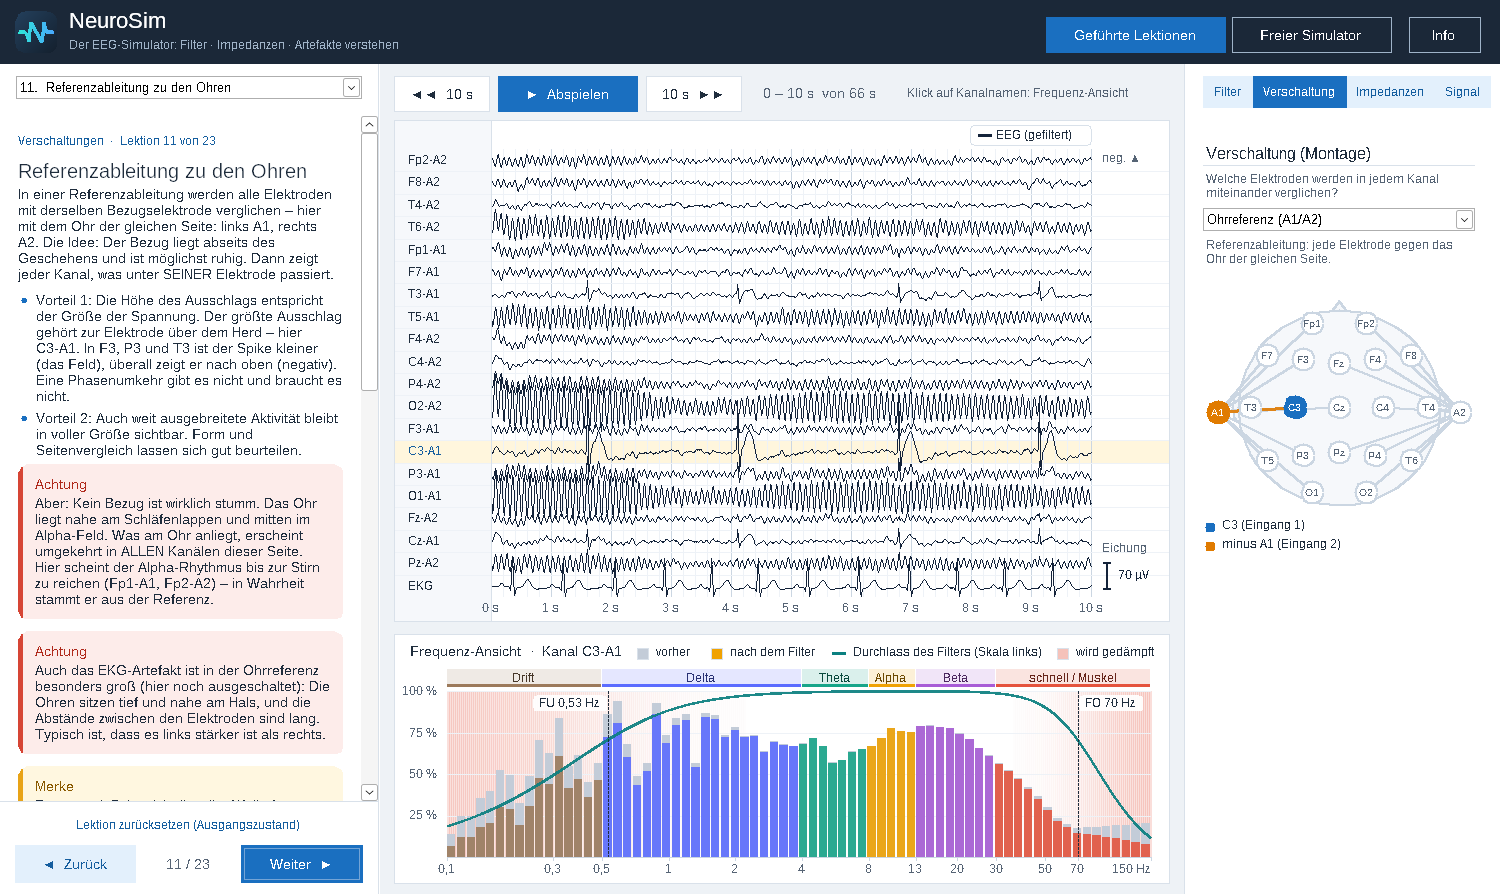
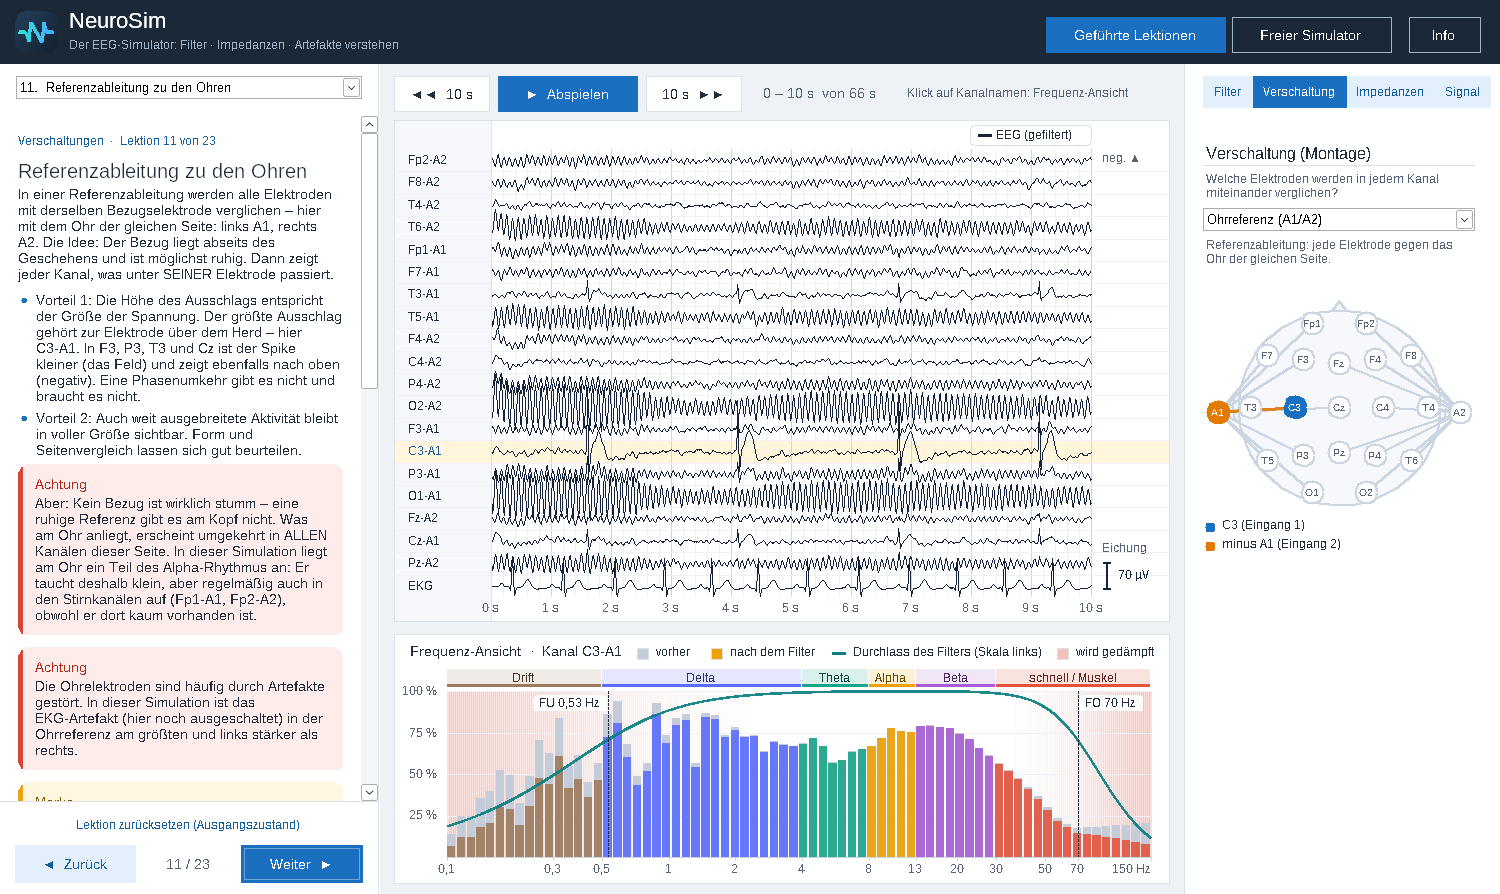
Fachliche Prüfung der neuen Lektionen: Aussagen an gelesene Quellen angepasst
- Verstärker-Kapitel nach Kappenman & Luck 2010 und Usakli 2010: Eingänge gegen die Erde,
  Gleichtaktunterdrückung mindestens 80 dB, Rolle von Impedanz-Unterschieden und Erdelektrode
- Nicht belegte Aussagen entfernt oder als Eigenschaft der Simulation gekennzeichnet
  (Alpha am Ohr, EKG-Artefakt links stärker, Artefakte am Scheitel, Schlaf-Graphoelemente an Cz)
- Angaben zu Ausschlägen an die Messwerte der Simulation angepasst
- Quellenangaben: was im Volltext geprüft wurde und was nicht

Claude-Session: https://claude.ai/code/session_01Y2fd9HeGxC5hUyPdmKffKh

Changed region(s): [[0.0, 0.7248, 0.2453, 0.8758], [0.0307, 0.5436, 0.2147, 0.6946], [0.0307, 0.3926, 0.2147, 0.453]]

diff --git a/KONZEPT.md b/KONZEPT.md
@@ -112,9 +112,11 @@ Die Texte und die Simulation wurden gegen öffentlich zugängliche Leitlinien un
 |---|---|
 | Kanalfolgen von Längsreihe, Querreihe, Ohr- und Vertexreferenz; bipolar und referenziell beurteilen; Average ohne Fp1/Fp2 und Ohren und „keine physikalische Referenz“; T3/T5/T4/T6 entsprechen T7/P7/T8/P8 | DGKN, Empfehlung zu EEG-Ableiteprogrammen (Fassung Oktober 2024, im Volltext geprüft) |
 | Registrierung digital ohne zusätzliche Filter; Übergangswiderstände 1–10 kΩ, möglichst gleichmäßig, vor, nach und bei Artefakten während der Ableitung dokumentieren; Programme während der Ableitung wechseln | DGKN, Empfehlungen für die Durchführung von EEG-Ableitungen bei Erwachsenen (Fassung Oktober 2024, im Volltext geprüft) |
-| Bipolar hebt umschriebene Befunde hervor, löscht Ausgebreitetes; Referenz zeigt Größe, kann „verschmutzt“ sein; Wahl von Ohr oder Cz je nach Ort des Befundes; Laplace für umschriebene Entladungen | Kutluay & Kalamangalam, J Clin Neurophysiol 2019; ACNS Guideline 3 (2016) |
-| Quellenableitung: Elektrode gegen ihre Nachbarn | Hjorth, Electroencephalogr Clin Neurophysiol 1975 |
-| Gleichtaktstörung, Wirkung ungleicher Elektrodenimpedanzen und der Erdelektrode | Metting van Rijn et al., Med Biol Eng Comput 1990; Huhta & Webster 1973 |
+| Bipolar hebt umschriebene Befunde hervor, löscht Ausgebreitetes; Referenz zeigt Größe, kann „verschmutzt“ sein; Wahl von Ohr oder Cz je nach Ort des Befundes; Laplace für umschriebene Entladungen | Kutluay & Kalamangalam, J Clin Neurophysiol 2019 (im Volltext geprüft); ACNS Guideline 3 (2016, nur in Auszügen geprüft) |
+| Quellenableitung: Elektrode gegen ihre Nachbarn | Hjorth, Electroencephalogr Clin Neurophysiol 1975 (nur über Sekundärquellen geprüft) |
+| Gleichtaktunterdrückung hängt vom Verhältnis Elektrodenimpedanz zu Eingangswiderstand ab; bei hohen Impedanzen werden die Unterschiede zwischen den Elektroden größer; Verstärker messen jeden Eingang gegen die Erde | Kappenman & Luck, Psychophysiology 2010 (im Volltext geprüft) |
+| Gleichtaktstörung bei geerdetem Körper im Millivolt-Bereich, sonst um 1 V; Gleichtaktunterdrückung mindestens 80 dB; Störströme erzeugen Spannungsabfall an den Elektroden | Usakli, Comput Intell Neurosci 2010 (im Volltext geprüft) |
+| Weiterführend zur Störeinkopplung (nicht im Volltext geprüft) | Metting van Rijn et al., Med Biol Eng Comput 1990; Huhta & Webster 1973 |
 | LowCut höchstens 0,5 Hz (TC 0,3 s), HiCut mindestens 70 Hz, Empfindlichkeit 5–10 µV/mm | DGKN, Empfehlungen für die Durchführung von EEG-Ableitungen bei Erwachsenen (Fassung 2024) |
 | Bei Kindern dieselben Geräte- und Darstellungseinstellungen wie bei Erwachsenen; Widerstände wiederholt prüfen; bei Neugeborenen unter 10 kΩ | DGKN, Empfehlungen für EEG-Ableitungen bei Kindern (Fassung Oktober 2024, im Volltext geprüft) |
 | Anordnung rechts über links, anterior über posterior; EKG während der gesamten Ableitung; mindestens 18 Kanäle | DGKN, Empfehlung zu EEG-Ableiteprogrammen (Fassung Oktober 2024, im Volltext geprüft) |
